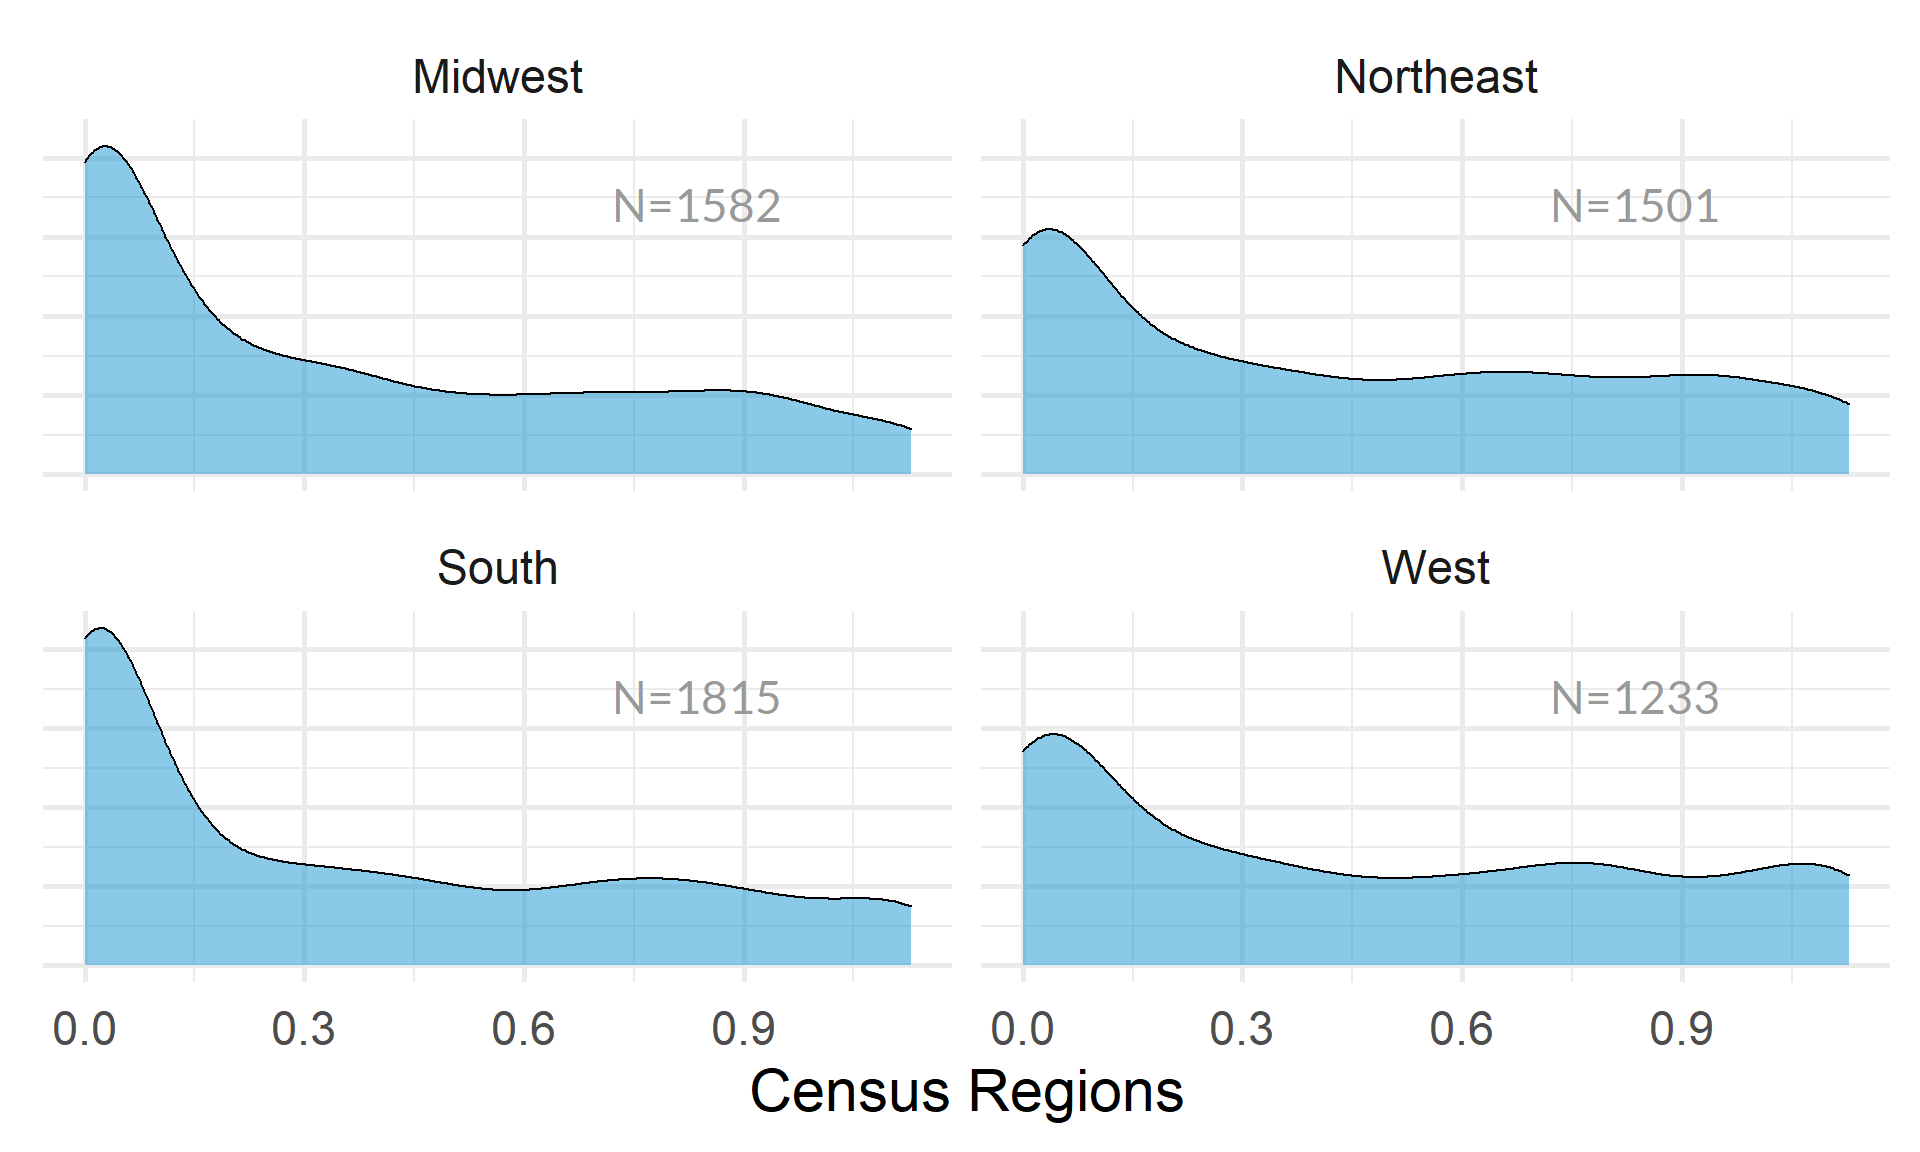
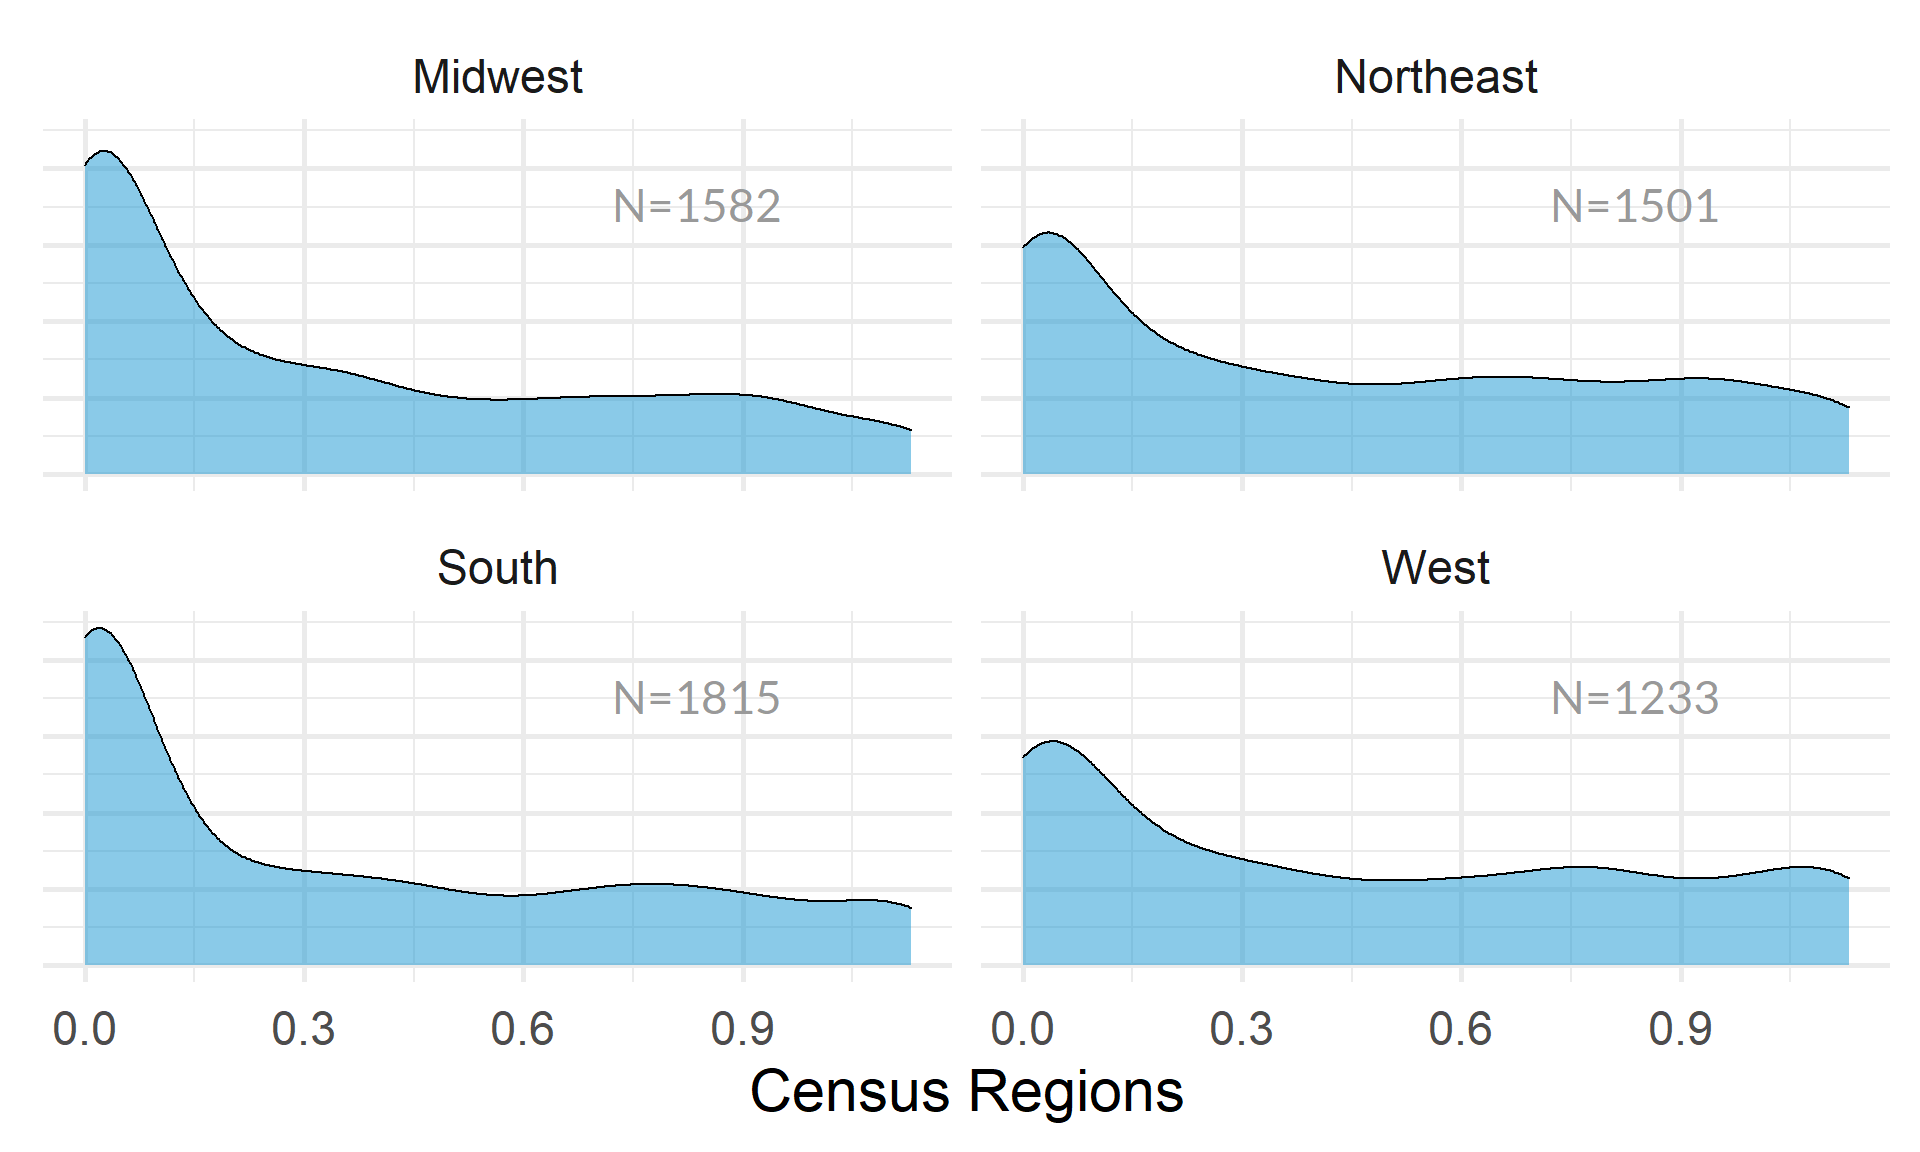
updated data and ratios

diff --git a/metric-05-self-sufficiency-ratio.html b/metric-05-self-sufficiency-ratio.html
@@ -456,6 +456,12 @@ div.tocify {
 <li>
   <a href="metric-02-current-ratio.html">M2-CR</a>
 </li>
+<li>
+  <a href="metric-03-days-operating-COH.html">M3</a>
+</li>
+<li>
+  <a href="metric-04-debt-to-equity-ratio.html">M4</a>
+</li>
       </ul>
       <ul class="nav navbar-nav navbar-right">
         
@@ -822,8 +828,8 @@ Liabiliies (1k)
 </tr>
 </table>
 <p>What proportion of orgs have Self Sufficiency Ratios equal to zero (no income)?</p>
-<div class="sourceCode" id="cb5"><pre class="sourceCode r"><code class="sourceCode r"><a class="sourceLine" id="cb5-1" title="1">prop.zero &lt;-<span class="st"> </span><span class="kw">mean</span>( core<span class="op">$</span>selfsufficiency <span class="op">==</span><span class="st"> </span><span class="dv">0</span>, <span class="dt">na.rm=</span>T )</a></code></pre></div>
-<p>In the sample, 17 percent of the organizations have Self Sufficiency ratios equal to zero, meaning they have no earned income. These organizations are dropped from subsequent graphs to keep the visualizations clean. The interpretation of the graphics should be the distributions of Self Sufficiency ratios for organizations that are earning at least $1 of income.</p>
+<div class="sourceCode" id="cb5"><pre class="sourceCode r"><code class="sourceCode r"><a class="sourceLine" id="cb5-1" title="1">prop.zero &lt;-<span class="st"> </span><span class="kw">mean</span>( core2<span class="op">$</span>selfsufficiency <span class="op">==</span><span class="st"> </span><span class="dv">0</span>, <span class="dt">na.rm=</span>T )</a></code></pre></div>
+<p>In the sample, 19 percent of the organizations have Self Sufficiency ratios equal to zero, meaning they have no earned income. These organizations are dropped from subsequent graphs to keep the visualizations clean. The interpretation of the graphics should be the distributions of Self Sufficiency ratios for organizations that are earning at least $1 of income.</p>
 <div class="sourceCode" id="cb6"><pre class="sourceCode r"><code class="sourceCode r"><a class="sourceLine" id="cb6-1" title="1"><span class="co">###</span></a>
 <a class="sourceLine" id="cb6-2" title="2"><span class="co">### ADD QUANTILES</span></a>
 <a class="sourceLine" id="cb6-3" title="3"><span class="co">###</span></a>
